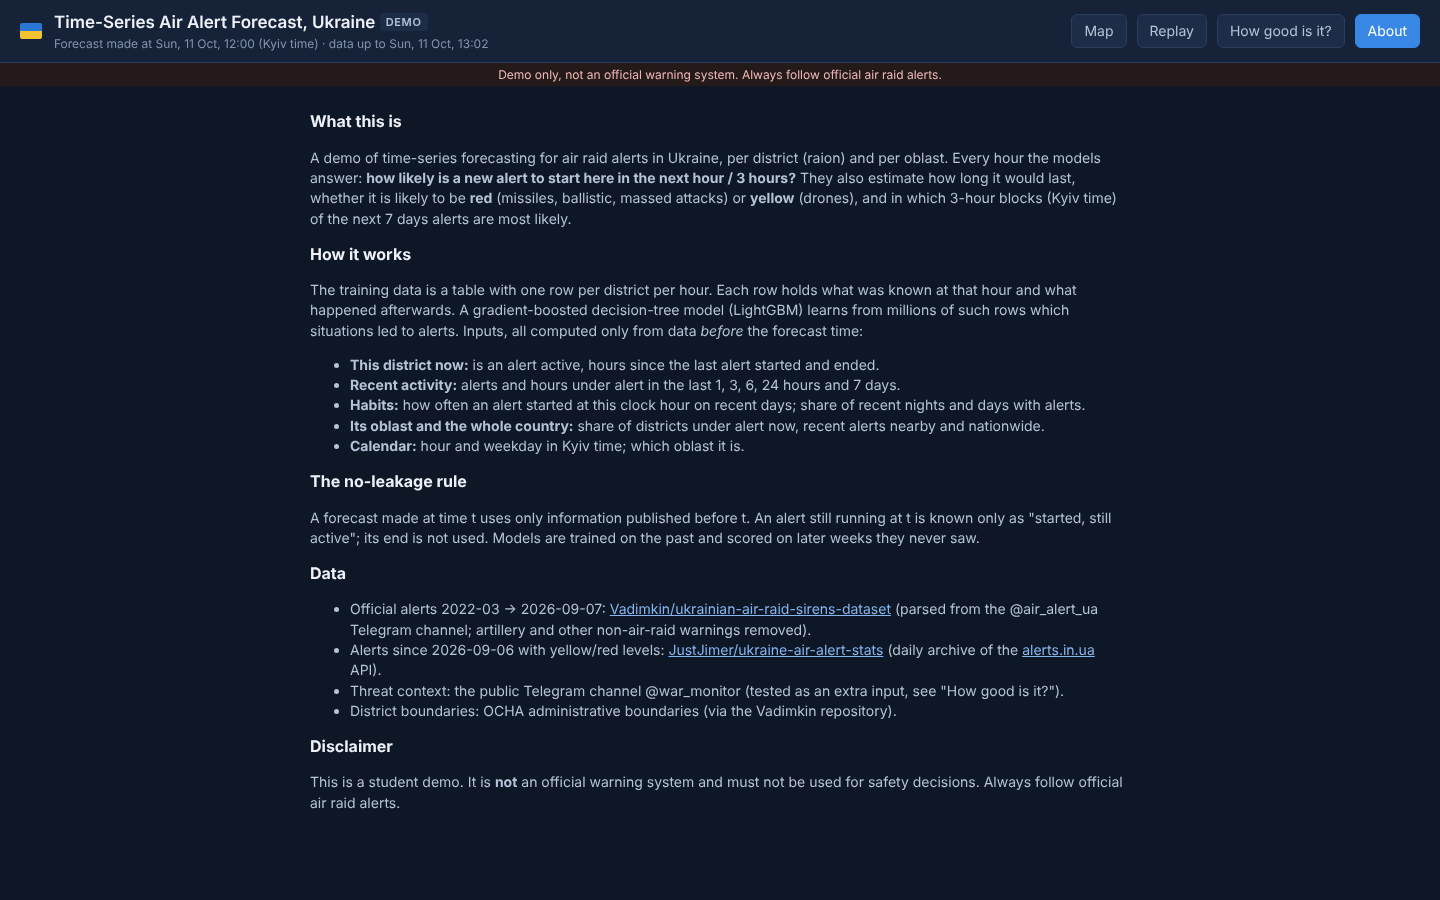
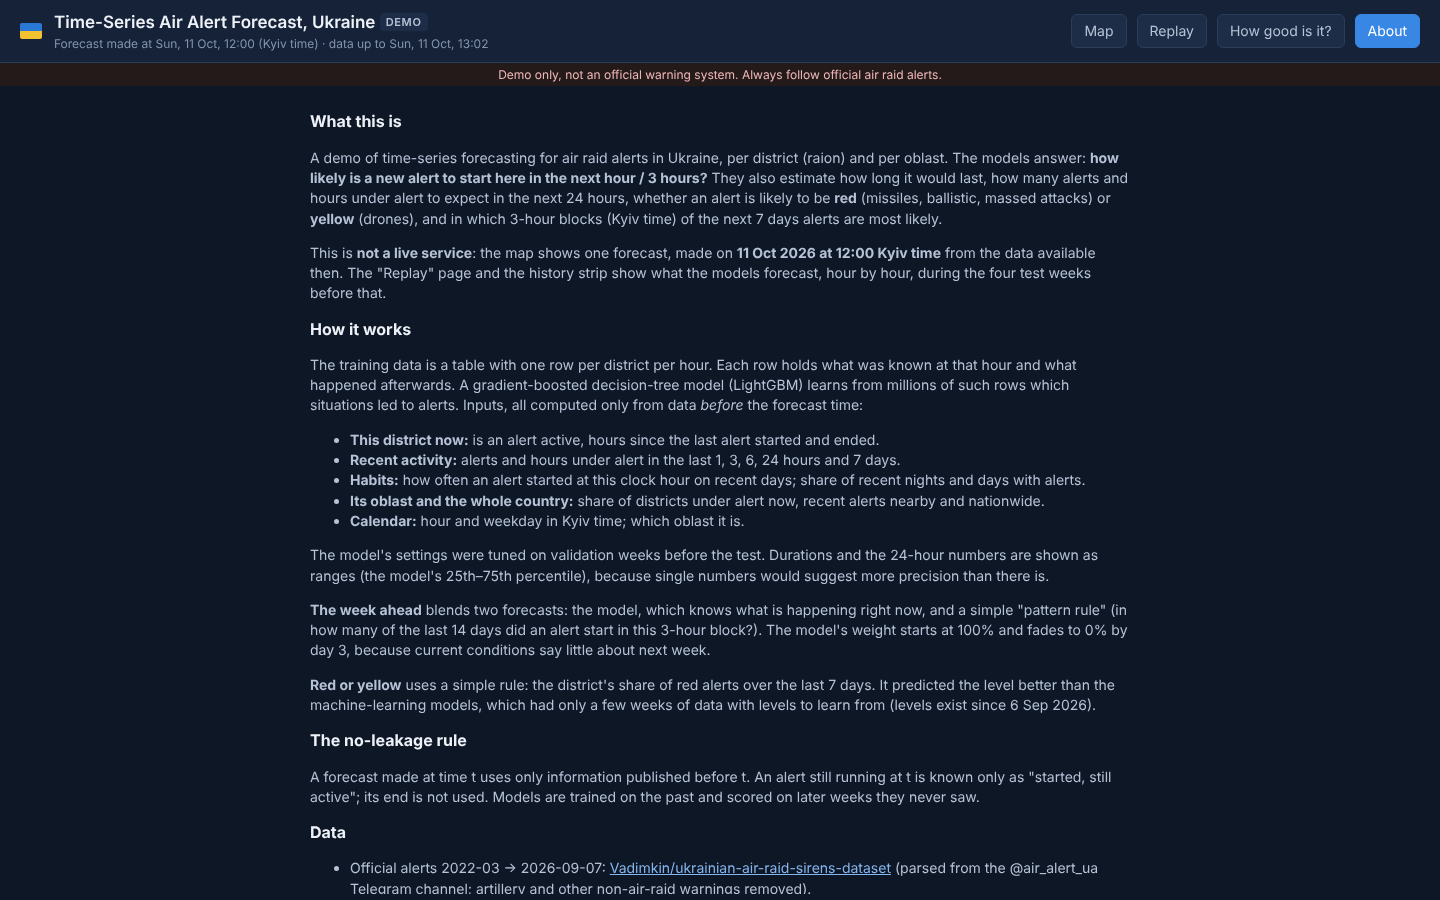
README; final docs and About page updated with test results; approve own netlify site
Claude-Session: https://claude.ai/code/session_01GyBQi7RKiQhyCoUGm942Yq

diff --git a/site/index.html b/site/index.html
@@ -73,9 +73,12 @@
     <div class="docbody">
       <h2>What this is</h2>
       <p>A demo of time-series forecasting for air raid alerts in Ukraine, per district (raion) and per oblast.
-        Every hour the models answer: <b>how likely is a new alert to start here in the next hour / 3 hours?</b>
-        They also estimate how long it would last, whether it is likely to be <b>red</b> (missiles, ballistic, massed attacks)
-        or <b>yellow</b> (drones), and in which 3-hour blocks (Kyiv time) of the next 7 days alerts are most likely.</p>
+        The models answer: <b>how likely is a new alert to start here in the next hour / 3 hours?</b>
+        They also estimate how long it would last, how many alerts and hours under alert to expect in the next 24 hours,
+        whether an alert is likely to be <b>red</b> (missiles, ballistic, massed attacks) or <b>yellow</b> (drones),
+        and in which 3-hour blocks (Kyiv time) of the next 7 days alerts are most likely.</p>
+      <p>This is <b>not a live service</b>: the map shows one forecast, made on <b>11 Oct 2026 at 12:00 Kyiv time</b> from the data available
+        then. The "Replay" page and the history strip show what the models forecast, hour by hour, during the four test weeks before that.</p>
       <h2>How it works</h2>
       <p>The training data is a table with one row per district per hour. Each row holds what was known at that hour and
         what happened afterwards. A gradient-boosted decision-tree model (LightGBM) learns from millions of such rows
@@ -87,6 +90,13 @@
         <li><b>Its oblast and the whole country:</b> share of districts under alert now, recent alerts nearby and nationwide.</li>
         <li><b>Calendar:</b> hour and weekday in Kyiv time; which oblast it is.</li>
       </ul>
+      <p>The model's settings were tuned on validation weeks before the test. Durations and the 24-hour numbers are shown as ranges
+        (the model's 25th–75th percentile), because single numbers would suggest more precision than there is.</p>
+      <p><b>The week ahead</b> blends two forecasts: the model, which knows what is happening right now, and a simple "pattern rule"
+        (in how many of the last 14 days did an alert start in this 3-hour block?). The model's weight starts at 100% and fades to 0% by day 3,
+        because current conditions say little about next week.</p>
+      <p><b>Red or yellow</b> uses a simple rule: the district's share of red alerts over the last 7 days. It predicted the level better
+        than the machine-learning models, which had only a few weeks of data with levels to learn from (levels exist since 6 Sep 2026).</p>
       <h2>The no-leakage rule</h2>
       <p>A forecast made at time t uses only information published before t. An alert still running at t is known only as
         "started, still active"; its end is not used. Models are trained on the past and scored on later weeks they never saw.</p>
@@ -96,9 +106,12 @@
           (parsed from the @air_alert_ua Telegram channel; artillery and other non-air-raid warnings removed).</li>
         <li>Alerts since 2026-09-06 with yellow/red levels: <a href="https://github.com/JustJimer/ukraine-air-alert-stats">JustJimer/ukraine-air-alert-stats</a>
           (daily archive of the <a href="https://alerts.in.ua">alerts.in.ua</a> API).</li>
-        <li>Threat context: the public Telegram channel @war_monitor (tested as an extra input, see "How good is it?").</li>
-        <li>District boundaries: OCHA administrative boundaries (via the Vadimkin repository).</li>
+        <li>Threat context: the public Telegram channels @war_monitor and @kpszsu (Air Force), read via their public web previews.
+          Both were tested as extra inputs; neither improved the forecasts on the validation weeks, so the map does not use them (see "How good is it?").</li>
+        <li>District boundaries: OCHA administrative boundaries (via the Vadimkin repository). Map library: <a href="https://leafletjs.com">Leaflet</a>.</li>
       </ul>
+      <p>Data versions used (fixed for reproducibility): Vadimkin dataset commit <code>bf0c323c</code>, JustJimer archive commit <code>7abc556b</code>
+        (data up to 11 Oct 2026). Code, method and all decisions: <a href="https://github.com/yehor-o/time_series_air_alerts">github.com/yehor-o/time_series_air_alerts</a>.</p>
       <h2>Disclaimer</h2>
       <p>This is a student demo. It is <b>not</b> an official warning system and must not be used for safety decisions.
         Always follow official air raid alerts.</p>

diff --git a/README.md b/README.md
@@ -1,0 +1,102 @@
+# Time-Series Air Alert Forecast, Ukraine (demo)
+
+Forecasts of **air raid alerts in every Ukrainian district (raion) and oblast**: the chance that a new alert starts in the
+next 1 and 3 hours, how long it would last, how many alerts and hours under alert to expect in the next 24 hours,
+when in the coming week alerts are most likely (3-hour Kyiv-time blocks), and whether an alert is likely to be red
+(missiles) or yellow (drones). Results are shown on a static website with a map of Ukraine.
+
+**Live site:** _link added after the Netlify deploy_
+
+> **Disclaimer.** This is a student demo, not an official warning system. Do not use it for safety decisions.
+> Always follow official air raid alerts.
+
+## Results (test period 13 Sep – 11 Oct 2026, scored once)
+
+All choices were made on earlier validation weeks and frozen before the test; nothing was changed afterwards
+(`decisions.md`, D48). Full tables: [`reports/test_results.md`](reports/test_results.md).
+
+| What we predict | District | Oblast | Simple rule for comparison |
+|---|---|---|---|
+| New alert within 1 h: AUC / skill | 0.822 / 0.148 | 0.825 / 0.164 | clock-hour rule: AUC 0.733 / 0.740 |
+| New alert within 3 h: AUC / skill | 0.836 / 0.339 | 0.854 / 0.402 | clock-hour rule: AUC 0.759 / 0.784 |
+| Duration range contains the true duration | 48% | 49% | ideal 50%; last-10-alerts rule 42–43% |
+| Hours under alert, next 24 h: average miss | 1.87 h | 2.06 h | 7-day average: 2.03 / 2.23 h |
+| Number of alerts, next 24 h: average miss | 1.72 | 2.09 | 7-day average: 1.66 / 1.93 (**ours is worse**) |
+| Week-ahead blocks: skill vs pattern rule | +0.003 | −0.035 (**worse**) | pattern rule |
+| Red vs yellow: AUC | 0.845 | — | previous alert's level: 0.712 |
+
+*AUC*: the chance that an hour with a new alert gets a higher forecast than an hour without one (0.5 = guessing).
+*Skill*: how much smaller the forecast error (Brier score) is than the clock-hour rule (0.3 = 30% smaller).
+The 1 h / 3 h probabilities are well calibrated: when the model says 45%, an alert started in about 46% of cases.
+
+## How it works
+
+- **Data**: one row per district per hour (about 4.8 million rows since March 2022). Each row holds what was known at
+  that hour and what happened afterwards.
+- **No leakage**: every input uses only data published before the forecast time; an alert still running is known only
+  as "started, still active". Unit tests check this (`tests/`).
+- **Models**: LightGBM (gradient-boosted decision trees) for the alert probabilities, durations, 24-hour numbers and
+  timing; a simple rule (the district's red share over the last 7 days) for red vs yellow. District and oblast have
+  separate models.
+- **Evaluation**: splits by time only. Walk-forward validation weeks (16 Aug – 12 Sep 2026) for every choice, then one
+  test run on the following four weeks.
+- **Telegram** (@war_monitor, @kpszsu) was tested as an extra input and did not help, so it is not used.
+
+Plain-English explanation of the whole method: [`docs/how_it_works.md`](docs/how_it_works.md).
+Every design decision, with the alternatives considered: [`decisions.md`](decisions.md).
+
+## Repository layout
+
+| Path | Contents |
+|---|---|
+| `src/alerts/` | Data sources, feature engineering, timing blocks, Telegram parsing |
+| `scripts/` | Pipeline steps: download, build tables, validation, tuning, final test, live forecast, site export |
+| `tests/` | Leakage tests (features must not look into the future) |
+| `reports/` | Validation and test results, hourly test predictions, screenshots |
+| `site/` | The static website (HTML/CSS/JS + JSON data); published by Netlify (`netlify.toml`) |
+| `data/telegram/`, `data/labels/` | Compressed snapshots of the scraped Telegram channels and message labels |
+| `data/raw/`, `data/processed/` | Downloaded and built data (not committed; recreated by the steps below) |
+
+## Reproduce
+
+Python 3.13. Run from the repository root. Times are for 4 CPU cores.
+
+```bash
+python3 -m venv .venv && . .venv/bin/activate && pip install -r requirements.txt
+
+bash scripts/restore_data.sh                                   # Telegram snapshots -> data/raw/ (seconds)
+python scripts/download_data.py --pin                          # alert data at the pinned commits (data/versions.json)
+PYTHONPATH=. python scripts/build_alert_table.py               # alert tables + data-quality report (~5 min)
+PYTHONPATH=. python scripts/build_panel.py --start 2022-03-01  # hourly tables (~5 min)
+PYTHONPATH=. python -m pytest -q tests/                        # leakage tests
+
+# optional: the validation experiments behind the decisions
+PYTHONPATH=.:scripts python scripts/validate_models.py         # also compare_windows, compare_telegram, compare_kpszsu,
+                                                               # validate_timing, validate_timing_variants, tune_lgbm (~40 min)
+
+PYTHONPATH=.:scripts python scripts/final_test.py              # the final test -> reports/test_results.md (~12 min)
+PYTHONPATH=.:scripts python scripts/predict_now.py             # live forecast -> reports/now_predictions.json (~9 min)
+PYTHONPATH=. python scripts/export_site.py                     # -> site/data/*.json
+cd site && python3 -m http.server 8765                         # open http://localhost:8765
+```
+
+Run the heavy model scripts one at a time.
+
+Pinned data (`data/versions.json`): Vadimkin dataset commit `bf0c323c`, JustJimer archive commit `7abc556b`
+(data up to 2026-10-11). Running `download_data.py` without `--pin` takes the newest data instead.
+
+## Data and credits
+
+- **Official alerts 2022-03 → 2026-09-07**: [Vadimkin/ukrainian-air-raid-sirens-dataset](https://github.com/Vadimkin/ukrainian-air-raid-sirens-dataset),
+  parsed from the official @air_alert_ua Telegram channel. We removed artillery and other non-air-raid warnings by
+  matching each row to its original message.
+- **Alerts since 2026-09-06, with yellow/red levels**: [JustJimer/ukraine-air-alert-stats](https://github.com/JustJimer/ukraine-air-alert-stats),
+  a daily archive of the [alerts.in.ua](https://alerts.in.ua) API. That repository has no licence file; it is credited here
+  and its data is used unchanged.
+- **Telegram channels** @air_alert_ua, @war_monitor, @kpszsu and @UkraineAlarmSignal, read via their public web previews (`t.me/s/...`).
+- **District boundaries**: OCHA administrative boundaries (via the Vadimkin repository).
+- **Map library**: [Leaflet](https://leafletjs.com) 1.9.4.
+
+## Licence
+
+No licence has been chosen yet; all rights reserved by the author.

diff --git a/docs/how_it_works.md b/docs/how_it_works.md
@@ -46,13 +46,14 @@ LightGBM is a chain of small **decision trees**.
 - One tree is a flowchart of yes/no questions, e.g. "Is the district under alert now? → More than 3 new alerts in the oblast in the last 3 h? → Between 01:00 and 05:00?". Each end of the flowchart gives a probability learned from history.
 - The model builds hundreds of trees **one after another**, each correcting the mistakes of the ones before. The final forecast combines all of them.
 - **One model serves all districts.** It knows which oblast a row belongs to, so it can learn regional differences.
+- **Settings were tuned** on the validation weeks (D47): simpler trees (31 leaves), smaller learning steps with more trees (0.03 × 700), and each tree sees 60% of the inputs. This cut the 3-hour error by about 1%.
 
 Which model is used for what:
 - **New alert within 1h / 3h:** LightGBM classifier ("yes/no" with a probability).
 - **Duration:** three LightGBM *quantile* models, giving the 25th, 50th and 75th percentile. The 25th–75th pair becomes "usually X–Y min".
-- **Count and hours in the next 24 h:** LightGBM regressors, shown as ranges.
+- **Count and hours in the next 24 h:** LightGBM *percentile* models (25th and 75th), shown as ranges such as "about 4–8 alerts" (D49).
 - **Timing (7 days × 8 blocks):** one LightGBM classifier on rows of (forecast time, future block). The week-ahead number is a **blend** with the simple pattern rule: `w × model + (1 − w) × pattern`, where `w` falls in a straight line from 1 (right now) to 0 (3 days ahead). Near-term blocks use what is happening now; by day 3 the forecast is the district's typical habit. Chosen on validation (D45).
-- **Red vs yellow:** the best of: the simple rule "this district's red share in the last 7 days", a logistic regression and LightGBM. Chosen on validation; today the simple rule wins.
+- **Red vs yellow:** a simple rule, "this district's red share over the last 7 days". It beat logistic regression and LightGBM on validation, so the site uses the rule.
 
 ## 5. How much history the models learn from
 
@@ -95,4 +96,28 @@ Compare "last 12 months only": weight 1 for anything younger than a year, **0** 
 - **Calibration:** when we say 30%, does it happen about 30% of the time? Checked by grouping forecasts into bins.
 - **MAE (mean absolute error):** the average size of the miss, in minutes, alerts or hours.
 - **Coverage of a range:** how often the true value falls inside "usually X–Y". For a 25th–75th percentile range the ideal is 50%.
-- **Telegram rule:** the version with @war_monitor inputs is used on the map only if it wins on the validation weeks. Both versions are shown on the "How good is it?" page.
+- **Telegram rule:** a Telegram version is used on the map only if it wins on the validation weeks. Both @war_monitor (threat reports) and @kpszsu (Air Force) were tested; neither won, so the map uses no Telegram inputs. All versions are shown on the "How good is it?" page.
+
+## 8. Final test results (13 Sep – 11 Oct 2026, scored once)
+
+All choices were frozen and signed off before the test. The test was run once, and nothing was changed after seeing it (D48). Full tables: `reports/test_results.md`; charts: the site's "How good is it?" page.
+
+| What we predict | District | Oblast | Compared with |
+|---|---|---|---|
+| New alert within 1 h: AUC / skill | 0.822 / 0.148 | 0.825 / 0.164 | clock-hour rule: AUC 0.733 / 0.740 |
+| New alert within 3 h: AUC / skill | 0.836 / 0.339 | 0.854 / 0.402 | clock-hour rule: AUC 0.759 / 0.784 |
+| Duration range contains the true duration | 48% | 49% | ideal 50%; "last 10 alerts" rule 42–43% |
+| Hours under alert in the next 24 h: average miss | 1.87 h | 2.06 h | 7-day average 2.03 / 2.23 h (we win by 8%) |
+| Number of alerts in the next 24 h: average miss | 1.72 | 2.09 | 7-day average 1.66 / 1.93 (**we lose** by 4–8%) |
+| Week-ahead blocks: skill vs pattern rule | +0.003 | −0.035 (**we lose** on days 1–2) | pattern rule |
+| Red vs yellow (test from 27 Sep): AUC | 0.845 | — | previous alert's level 0.712 |
+
+What this means in plain words:
+- **The main forecast works.** It ranks risky hours well above chance and well above the simple rule, and its percentages can be taken literally (when it says 45%, an alert started in about 46% of cases).
+- **It was stable**: useful in every test week, a bit better by day than by night.
+- **Two weak spots**, kept and reported honestly: the 24-hour alert *count* is no better than "the daily average of the last 7 days", and for oblasts the week-ahead percentages for the next two days were less accurate than the simple pattern.
+- **Telegram did not help** at district level; at oblast level @war_monitor was slightly better on the test, but it had lost on the validation weeks, so it is not used.
+
+## 9. The forecast on the site
+
+The site shows one forecast, made at **11 Oct 2026, 12:00 Kyiv time**, from the pinned data (Vadimkin `bf0c323c`, JustJimer `7abc556b`). Every model was retrained on all data known at that moment, with the frozen settings (`scripts/predict_now.py`). The history strip and the replay show forecasts of the test-run models, which were trained before 13 Sep, so they are genuine forecasts made without knowing what happened next.

diff --git a/Project-State.md b/Project-State.md
@@ -21,7 +21,8 @@ _Last updated: 2026-10-12, ~17:30 Kyiv (session 2)._ Deadline: **today 23:59 Kyi
   - Red vs yellow (test from 27 Sep): AUC 0.845 for the 7-day red-share rule.
 - **Website shows REAL data** (`scripts/predict_now.py` + `scripts/export_site.py`): forecast moment 2026-10-11 09:00 UTC (12:00 Kyiv), pinned data. Screenshots: `reports/screens/`. 24h ranges cover 52–65% on the last validation week (ideal 50%).
 - **"How good is it?" page** merged with the model comparison: 8 chart sections from `metrics.json` (test results), weak spots marked "lost" (D48).
-- **NOT done:** Netlify deploy, README, merge into main, optional data refresh (D50).
+- **README** and final docs done (`README.md`, `docs/how_it_works.md` sections 8–9, About page).
+- **NOT done:** merge into main, Netlify deploy (option A, `air-alert-forecast-ua`), live URL in README/About, optional data refresh (D50).
 
 ## Session 2 (2026-10-12)
 - Data rebuilt at the pinned commits (both upstream repos have newer commits; the user chose to keep the pins).

diff --git a/tasks.md b/tasks.md
@@ -28,7 +28,8 @@ Deadline: **Mon 2026-10-12, 23:59 Kyiv**. Done items from earlier phases are sum
 10. [x] `scripts/export_site.py` → real `site/data/*.json` (sample banner gone)
 11. [x] Site: real data + merged "How good is it?" page with model-comparison charts (screenshots in `reports/screens/`)
 12. [ ] Netlify deploy (with the user; `netlify.toml` publishes `site/`)
-13. [ ] README, final explanation, merge into main
+13. [x] README written (live-site link to add after Netlify); docs/how_it_works.md and About page updated with the test results
+14. [ ] Merge into main, then Netlify (option A, with the user; site name air-alert-forecast-ua), then add the URL to README/About
 
 ## Later / optional
 - Artillery as a separate small product for Nikopol / Marhanets (D39 option b)

diff --git a/CLAUDE.md b/CLAUDE.md
@@ -27,6 +27,7 @@ The user owns this project and must understand and approve what happens.
    - `t.me`: the public web previews of `@war_monitor`, `@air_alert_ua`, `@kpszsu` and `@UkraineAlarmSignal` (the last two approved 2026-10-12)
    - `pypi.org`: package installs (approved for Python libraries)
    - `cdnjs.cloudflare.com`: Leaflet 1.9.4 for the website map (approved 2026-10-12)
+   - `air-alert-forecast-ua.netlify.app`: our own deployed site, to check that it loads (approved 2026-10-12)
 
    Anything else (e.g. `alerts.in.ua`, news sites, other Telegram channels) needs approval first. Add each newly approved site to this list.
 
